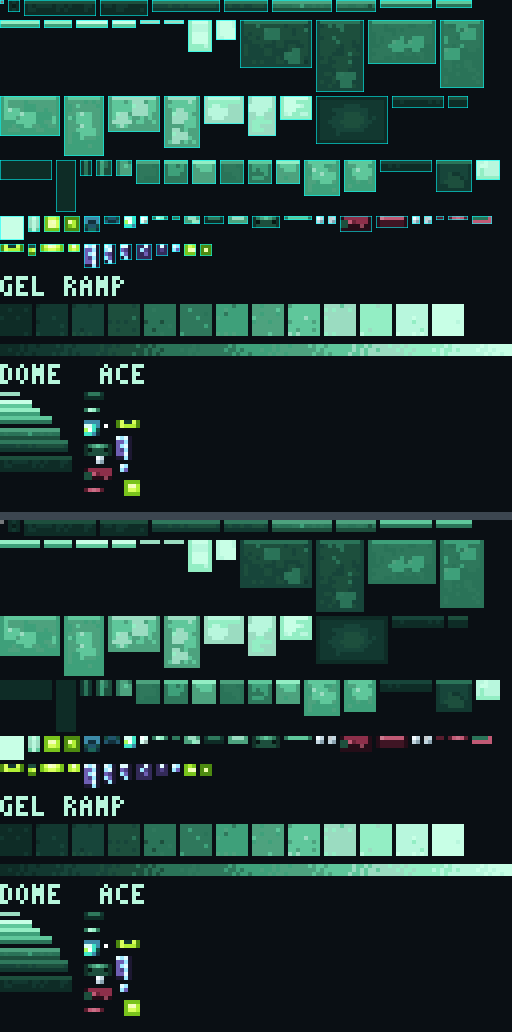
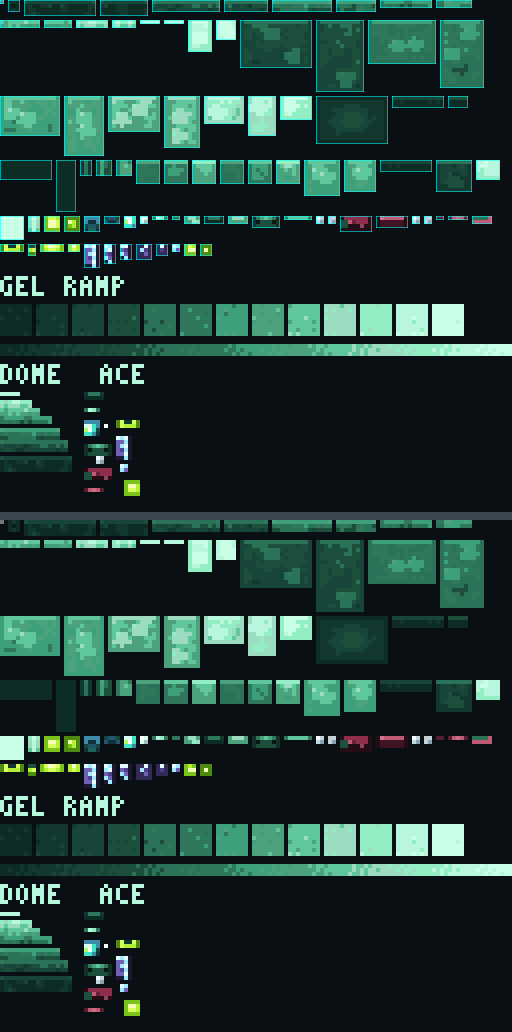
Give the gel real contrast: stretch the noise, drop the static, budget the bevel
The mottling pass from the previous commit still read flat, and the diagnosis turned out not
to be the noise function itself:

- a 2-octave average clusters around 0.5, so even a 13-step ramp quantised it onto 2 tones per
  tile; mottle() now stretches the field around its midpoint, which is what puts near-black
  clumps next to mid-grey ones inside a single face like the reference stone does
- per-texel hash jitter was literal static at one texel per model unit - cut to 0.08-0.12
  (this is what read as 乱)
- bevel() lit the top row and darkened the bottom row unconditionally, which on 2-3 texel tall
  dome layers spent the whole face on two edge bands; it is now budget-aware (one lit pixel
  below 5 rows, off below 3)
- gel_side neighbour delta 9.8 -> 13.5, gel_up 8.7 -> 9.6 (reference 11.0)
- README documents all three and the measurements

diff --git a/tools/slime_texture.js b/tools/slime_texture.js
@@ -125,11 +125,16 @@ module.exports = function build(ctx) {
         const amp = (o.amp === undefined ? 1.5 : o.amp);
         const drop = (o.drop === undefined ? 0.9 : o.drop);
         const jit = (o.jitter === undefined ? 0.22 : o.jitter);
+        // A 2-octave average clusters hard around 0.5, so the raw field almost never reaches the
+        // ends of its range and each tile lands on 2 ramp steps however wide the palette ramp is.
+        // Stretching around the midpoint is what turns the field into clumps that actually span
+        // the tone range - the difference between "tinted flat" and "material".
+        const st = (o.stretch === undefined ? 1.28 : o.stretch);
         const seed = P.seed + (o.seed || 0);
         for (let y = 0; y < h; y++) {
           const vk = h > 1 ? drop * (y / (h - 1)) : 0;
           for (let x = 0; x < w; x++) {
-            const n = fbm2(x * sc + 0.5, y * sc + 0.5, seed);
+            const n = clamp((fbm2(x * sc + 0.5, y * sc + 0.5, seed) - 0.5) * st + 0.5, 0, 1);
             P.px(x, y, map(k + (n - 0.5) * amp - vk + (hash(x, y, seed + 31) - 0.5) * jit));
           }
         }
@@ -171,7 +176,20 @@ module.exports = function build(ctx) {
       streak(x, y0, y1, k) { P.col(x, y0, y1, gel(k + 2)); P.px(x, y0, gel(k + 4)); },
       /** A 1-texel bevel: lit top row, shaded bottom row and flanks.  This is what makes a block
           read as a solid volume instead of a flat patch - deliberate structure, not noise. */
+      /** A 1-texel bevel: lit top row, shaded bottom row and flanks.  This is what makes a block
+          read as a solid volume instead of a flat patch - deliberate structure, not noise.
+          It is BUDGET-AWARE: a 3-texel-tall face cannot afford two of its three rows spent on
+          edges, which is what turned the thin dome layers into flat light/dark bands.  Below
+          5 rows the bevel retreats to a single pixel of lift and no drop, and below 3 rows it
+          does not run at all - the mottling is the material, the bevel is only an accent. */
       bevel(k, lift = 1, drop = 1, flanks = true) {
+        if (h < 3) return;
+        if (h < 5) {
+          P.px(0, 0, gel(k + lift));
+          P.px(w - 1, 0, gel(k + lift));
+          if (w >= 3) P.row(0, 1, w - 2, gel(k + lift * 0.5));
+          return;
+        }
         P.row(0, 0, w - 1, gel(k + lift));
         P.row(h - 1, 0, w - 1, gel(k - drop));
         if (flanks && h >= 3) { P.col(0, 1, h - 2, gel(k - drop * 0.7)); P.col(w - 1, 1, h - 2, gel(k - drop * 0.7)); }
@@ -214,7 +232,7 @@ module.exports = function build(ctx) {
     if (part === 'skirt') {
       // wet ground puddle: dark pooled gel, a bright waterline, run-off streaks below it
       const k = Math.round(kc);
-      P.mottle(k, { scale: 0.75, amp: 1.8, drop: 1.4, jitter: 0.2 });
+      P.mottle(k, { scale: 0.75, amp: 1.8, drop: 1.4, jitter: 0.1 });
       P.row(0, 0, w - 1, gel(k + 2));                       // waterline
       for (let i = 0; i < Math.max(2, Math.round(w / 5)); i++) {
         const x = Math.floor(hash(i, 1, P.seed) * w);
@@ -228,28 +246,28 @@ module.exports = function build(ctx) {
     if (part === 'drip') {
       // a hanging drip: dark at the tip, one wet highlight running down its leading edge
       const k = Math.round(kc);
-      P.mottle(k, { scale: 0.8, amp: 0.9, drop: 1.2, jitter: 0.14 });
+      P.mottle(k, { scale: 0.8, amp: 0.9, drop: 1.2, jitter: 0.08 });
       P.col(0, 0, h - 1, gel(k - 1)); P.col(w - 1, 0, h - 1, gel(k - 1));
       P.col(Math.min(w - 1, 1), 0, h - 1, gel(k + 2)); P.px(Math.min(w - 1, 1), 0, gel(k + 3));
       return;
     }
     if (part === 'lobe') {
       const k = Math.round(kc);
-      P.mottle(k, { scale: 0.58, amp: 1.9, drop: 0.9, jitter: 0.24 });
+      P.mottle(k, { scale: 0.58, amp: 1.9, drop: 0.9, jitter: 0.1 });
       P.bevel(k, 1.5, 1.5);
       if (w >= 7 && h >= 4) P.blotch(k + 0.9, { x: 1 + r() * (w - 4), y: h - 3, r: 2.2, squash: 0.85 });
       return;
     }
     if (part === 'knob') {
       const k = Math.round(kc);
-      P.mottle(k, { scale: 0.66, amp: 1.2, drop: 0.6, jitter: 0.18 });
+      P.mottle(k, { scale: 0.66, amp: 1.2, drop: 0.6, jitter: 0.08 });
       P.px(1, 1, gel(k + 3)); P.px(2, 0, gel(k + 3)); P.px(2, 1, gel(k + 2));
       P.row(h - 1, 0, w - 1, gel(k - 1));
       return;
     }
     if (part === 'antenna') {
       const k = Math.round(kc);
-      P.mottle(k, { scale: 0.8, amp: 1.0, drop: 0.5, jitter: 0.16 });
+      P.mottle(k, { scale: 0.8, amp: 1.0, drop: 0.5, jitter: 0.08 });
       P.bevel(k, 1, 1, false);
       P.col(Math.min(w - 1, 1), 0, h - 1, gel(k + 2));
       P.px(1, 0, gel(k + 3));
@@ -260,7 +278,10 @@ module.exports = function build(ctx) {
     // mottling, a lit top edge, pooled shadow along the bottom edge, run-off streaks on the
     // taller faces, one wet glint up high or one bubble down low.
     const k = Math.round(kc);
-    P.mottle(k, { scale: 0.65, amp: 3.1, drop: 1.2, jitter: 0.3 });
+    // The reference stone shows a near-black pit right beside a mid-grey clump INSIDE one face;
+    // a layer that sits low on the ramp needs a wider spread to reach that contrast, because
+    // the dark end of the palette has much smaller luminance steps than the light end.
+    P.mottle(k, { scale: 0.6, amp: 2.0 + (1 - light) * 2.6, drop: 1.2, jitter: 0.1 });
     P.bevel(k, 2, 2);
     if (h >= 5 && w >= 6) {                         // gel running off the layer above
       const n = 1 + Math.floor(hash(0, 21, P.seed) * 2);
@@ -299,7 +320,7 @@ module.exports = function build(ctx) {
     if (part === 'skirt') {
       // dark wet pool: clumped tone, a soft reflection patch, shaded rim
       const k = Math.round(kc - 3.6);
-      P.mottle(k, { scale: 0.85, amp: 1.0, drop: 0.5, jitter: 0.12 });
+      P.mottle(k, { scale: 0.85, amp: 1.0, drop: 0.5, jitter: 0.08 });
       const cx = (w - 1) / 2;
       for (let y = 1; y < Math.max(2, h - 1); y++) {
         const half = Math.max(1, Math.floor((h - y) / 2.2));
@@ -313,7 +334,7 @@ module.exports = function build(ctx) {
     // two soft specular pools (noise-shaped, not 2x2 squares).  The six dome layers step the
     // tone between rings, so the tile itself only has to sell the material.
     const k = Math.round(kc);
-    P.mottle(k, { scale: 0.58, amp: 2.6, drop: 0.8, jitter: 0.32 });
+    P.mottle(k, { scale: 0.46, amp: 2.4, drop: 0.9, jitter: 0.12 });
     P.row(0, 0, w - 1, gel(k + 1));
     P.row(h - 1, 0, w - 1, gel(k - 1));
     P.col(0, 0, h - 1, gel(k - 1)); P.col(w - 1, 0, h - 1, gel(k - 1));
@@ -331,7 +352,7 @@ module.exports = function build(ctx) {
   painters.gel_down = function (p) {
     const { P } = p, w = P.w, h = P.h;
     // underside: the darkest body tone, only the middle catching a little bounce light
-    P.mottle(1, { scale: 0.7, amp: 0.9, drop: 0, jitter: 0.14 });
+    P.mottle(1, { scale: 0.7, amp: 0.9, drop: 0, jitter: 0.08 });
     P.blotch(2.2, { r: Math.max(1.6, Math.min(w, h) / 2 - 0.8), squash: h / Math.max(1, w) });
     P.blotch(3.0, { r: Math.max(0.9, Math.min(w, h) / 4), squash: h / Math.max(1, w), seed: 91 });
     P.outline(gel(0));
@@ -339,7 +360,7 @@ module.exports = function build(ctx) {
 
   painters.gel_lid = function (p) {
     const { P } = p, w = P.w, h = P.h;
-    P.mottle(7, { scale: 0.75, amp: 1.1, drop: 0.5, jitter: 0.16 });
+    P.mottle(7, { scale: 0.75, amp: 1.1, drop: 0.5, jitter: 0.08 });
     P.row(0, 0, w - 1, gel(9));
     P.px(1, 0, gel(11)); P.px(2, 0, gel(10));
     P.col(0, 0, h - 1, gel(5)); P.col(w - 1, 0, h - 1, gel(5));
@@ -530,7 +551,7 @@ module.exports = function build(ctx) {
     const light = lightOf(t, 0.45);
     // obsidian: clumped facet mottling (the reference shards are never a flat wash either),
     // then a lit left edge, a shadowed right flank and a bright tip
-    P.mottle(0.5 + light + h * 0.055, { map: xtal, scale: 0.9, amp: 1.5, drop: 0.5, jitter: 0.12 });
+    P.mottle(0.5 + light + h * 0.055, { map: xtal, scale: 0.9, amp: 1.5, drop: 0.5, jitter: 0.07 });
     P.col(0, 0, h - 1, xtal(3));                     // lit facet edge
     P.col(1, 0, h - 1, xtal(2.2));
     if (w > 2) P.col(2, 0, h - 1, xtal(1.4));

diff --git a/README.md b/README.md
@@ -65,14 +65,32 @@ continue a single 13-step mint→deep-teal ramp.
 **Material, not static (the current pass).** The reference creatures in `refs/` are mottled over
 their whole surface, but the mottling arrives as *clumps* with wandering outlines — an earlier
 version of this atlas put flat tone inside a face and dropped two random 2×2 squares on top of it,
-which on screen read as scattered confetti rather than as gel. Every gel/obsidian tile is now
-painted by `P.mottle()`, a low-frequency value-noise field pushed through the palette ramp (the
-ramp's hard steps are what turn the smooth field into readable pixel clumps), and the large shapes
-are authored on top of it as *gravity-driven* features: a lit waterline along the tile's top edge,
-run-off streaks running down the taller faces, gel pooling dark along the bottom edge, and
-noise-shaped (never square) specular pools. Measured with the same metric as the reference
-(`build/ourstats.js`): the gel families average a 9.8 / 8.7 per-texel neighbour delta against the
-reference's 11.0, i.e. the same order of mottling density instead of a wash.
+which on screen read as scattered confetti rather than as gel.
+
+Every gel/obsidian tile is now painted by `P.mottle()`: a low-frequency value-noise field pushed
+through the palette ramp, where the ramp's hard steps turn the smooth field into readable pixel
+clumps. Three details turned out to matter more than the choice of noise:
+
+1. **The noise has to be stretched.** A 2-octave average clusters hard around 0.5, so the raw
+   field almost never reaches the ends of its range and even a 13-step palette ramp quantises it
+   onto 2 tones per tile — "tinted flat", which is what the model looked like. `mottle()` rescales
+   the field around its midpoint (`stretch`), which is what gets near-black clumps next to mid-grey
+   ones *inside one face*, exactly as the reference stone does.
+2. **Per-texel jitter had to go.** An earlier pass added a per-pixel hash term to "break up" the
+   mottling; at one texel per model unit that is literal static, and it is what read as 乱. The
+   jitter is now a whisper (0.08–0.12 of a tone step) and the clumps carry the texture.
+3. **The bevel is budget-aware.** `bevel()` used to light the top row and darken the bottom row
+   unconditionally — on a 2- or 3-texel-tall dome layer that spends the entire face on two edge
+   bands and erases the material. Below 5 rows it now retreats to a single lit pixel, below 3 rows
+   it does not run at all: the mottling is the material, the bevel is only an accent.
+
+On top of the material sit *gravity-driven* features: a lit waterline along the tile's top edge,
+run-off streaks on the taller faces, gel pooling dark along the bottom edge, and noise-shaped
+(never square) specular pools. Same treatment for the obsidian shards and the acid bulbs/beads.
+
+Measured with the reference's own metric (`build/ourstats.js`, per-texel neighbour delta inside
+tiles): gel_side **13.5**, gel_up **9.6**, against the reference's 11.0 — same order of mottling
+density, with the crystal/acid/eye accents deliberately far above it because they are glowing.
 
 The free space holds a **swatch board** (13-step tone ramp, a continuous ramp strip, an assembled
 dome/face reference, 5 texture cards and the full palette grid) so a human can repaint the model
